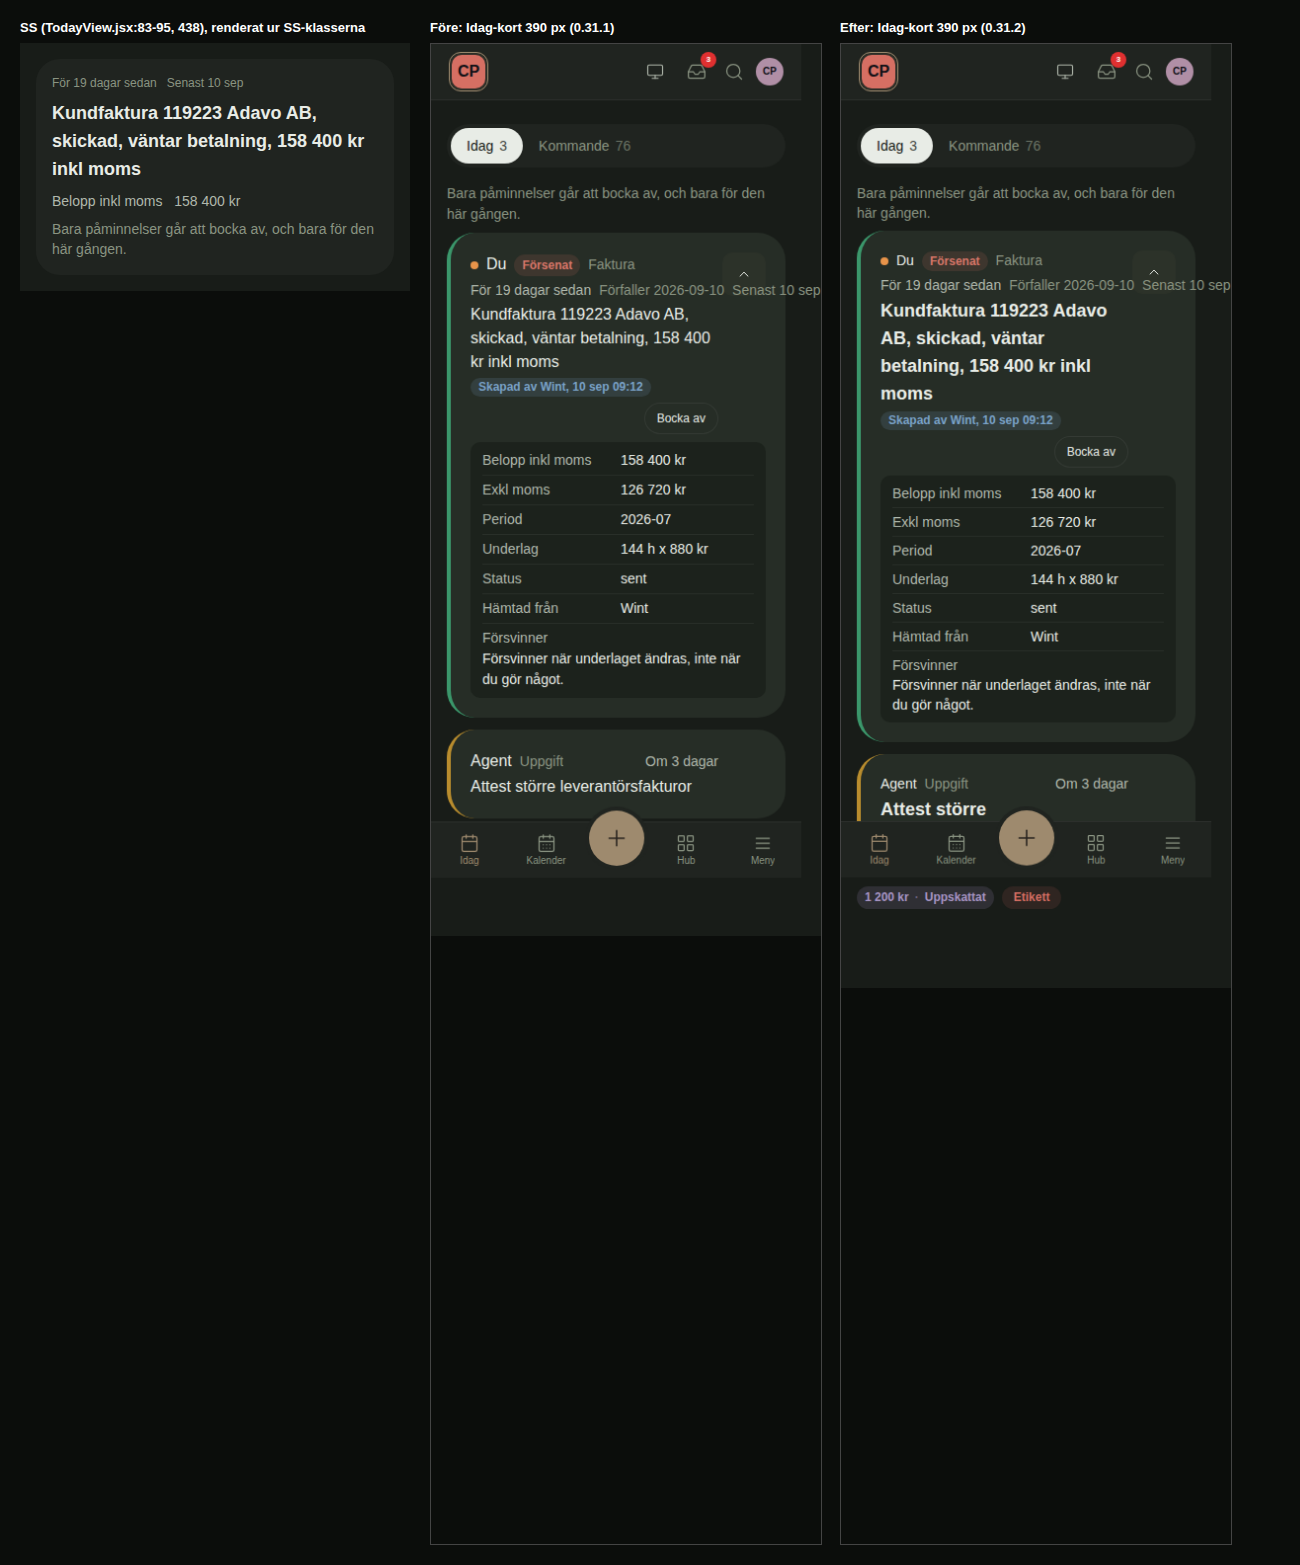
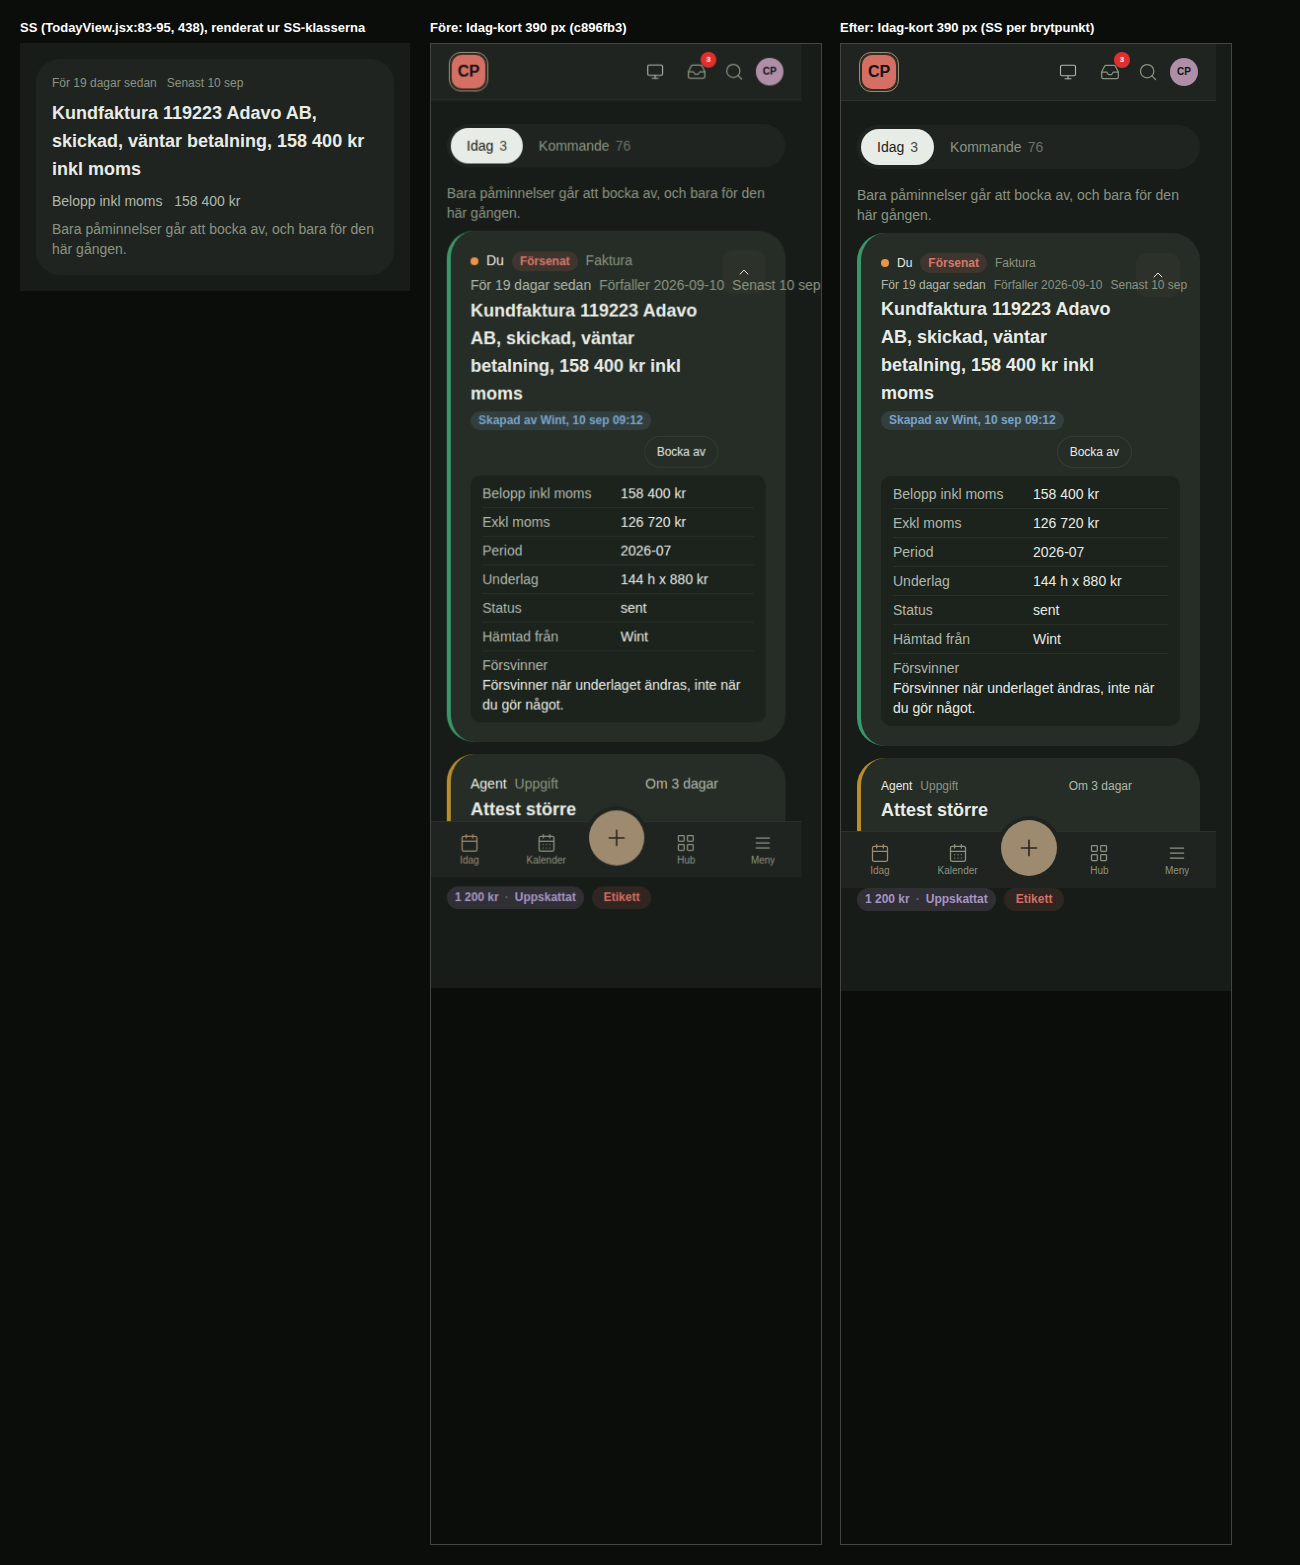
0.31.2: skalyta avsnitt 20 per brytpunkt och avsnitt 21 hemskärm, CHANGELOG E, montage och jämförelse
Claude-Session: https://claude.ai/code/session_01MtEbCzeFTkDPr7xPiiaUpz

diff --git a/scripts/lib/skalyta-entry.jsx b/scripts/lib/skalyta-entry.jsx
@@ -368,6 +368,33 @@ function Scen() {
       </Full>
     );
   }
+  // 0.31.2 (uppgift 6): en lång sida i skalet med bottenrad, för att emulera en hemskärmsapp (iOS standalone) med säkra zoner.
+  if (s === "lang") {
+    const { OpsView } = Ops;
+    const handelser = Array.from({ length: 12 }, (_, i) => ({ id: `l${i}`, title: `Händelse nummer ${i + 1}`, daysLeft: i - 3, role: "Du", kind: "Uppgift", when: `Om ${i} dagar`, slag: 2, slagLabel: "Uppgift" }));
+    return (
+      <Full>
+        <OpsView>
+          <OpsEventList events={handelser} />
+        </OpsView>
+      </Full>
+    );
+  }
+  // Samma sida med listan i `OpsScrollArea` (som bolag-ops Idag): ytan rullar i sig själv och dokumentet ska INTE rulla.
+  if (s === "langarea") {
+    const { OpsView, OpsScrollArea } = Ops;
+    const handelser = Array.from({ length: 12 }, (_, i) => ({ id: `l${i}`, title: `Händelse nummer ${i + 1}`, daysLeft: i - 3, role: "Du", kind: "Uppgift", when: `Om ${i} dagar`, slag: 2, slagLabel: "Uppgift" }));
+    return (
+      <Full>
+        <OpsView>
+          <p>Filter</p>
+          <OpsScrollArea>
+            <OpsEventList events={handelser} />
+          </OpsScrollArea>
+        </OpsView>
+      </Full>
+    );
+  }
   // 0.31.2: Idag som referens för avståndet under toppraden och sidomarginalen: en vanlig vy i `OpsView`, som bolag-ops Idag.
   if (s === "idag") {
     const { OpsView } = Ops;

diff --git a/CHANGELOG.md b/CHANGELOG.md
@@ -51,11 +51,15 @@ CP: *"Fortfarande jävla diffar i textstorlek på olika håll. Kan det bli enhet
 faktatabellen och bottenraden olika storlekar. Orsaken: komponenterna skrev `text-xs`, `text-sm`, `text-base`, `text-md`, `text-lg` och `text-xl` rakt av (**168 ställen i 61 filer**)
 och det som saknade storlek ärvde 16 px från body. Nu finns tio roller i `tokens/sessionstudio-profil.json` med SS fil och rad (nya: `meta` 12 px, `brod` 16 px, `titel` 18 px, `sida` 20 px;
 `etikett` fick SS radhöjd 1,25 rem) och **ingen ramverkskomponent skriver en Tailwind-storlek**: kortets titel är `titel`, metaraden och faktarader `etikett`, chips `meta`.
-⛔ Ändrat värde: **sidrubrikerna (`text-xl`) går från 24 till 20 px**, som SS `GroupDetailView.jsx:95` (ramverkets `text-xl` var ett eget mellansteg). Kortets titel går från 16 till 18 px.
-⛔ Kvarvarande skillnader mot SS, medvetna: metaraden är 14 px på telefon (SS 12 px, `text-xs sm:text-sm`) och korttiteln 18 px på alla bredder (SS 20 px från sm); ramverket har en storlek per roll.
+⛔ Ändrat värde: **sidrubrikerna (`text-xl`) går från 24 till 20 px**, som SS `GroupDetailView.jsx:95` (ramverkets `text-xl` var ett eget mellansteg). Kortets titel går från 16 till 18 px (20 från 640 px).
+**SS per brytpunkt** (CP: "exakt SS"): kortets metarad är `text-meta sm:text-etikett` (12 px under 640 px, 14 från; SS `text-xs sm:text-sm`, `TodayView.jsx:83/86`) och korttiteln `text-titel sm:text-sida` (18 / 20 px; SS `text-lg sm:text-xl`, `TodayView.jsx:89`). Vakten mäter mot SS-värdet per bredd (390 och 1280); rött mot c896fb3 (4 brott), grönt efter.
 `check-typografi` fäller nu `text-xs/sm/base/md/lg/xl` i `src/components` och `src/lib` (rött i `check:guards`, grönt för en roll; en app utan `--ramverksregler` berörs inte).
 `check-skalyta` avsnitt 20 mäter varje synligt textelement på fem fixtursidor vid 390 och 1280 (296 i `main`, golv 60): roll finns, storleken ur rollmängden och lika med SS-värdet,
 samma storlek på båda bredder, Idag-kortets element mot SS. **Rött mot HEAD: 300 avvikelser (278 textelement), grönt nu: 0.** Tokens `--text-sm/base/xs/md/lg/xl` finns kvar för appar som ännu inte flyttat.
+
+### E. Hemskärmsapp (iOS standalone): headern täcker statusfältet och sidan rullar inte extra (CP 2026-09-29 22:33)
+CP, bolag-ops på hemskärmen (`viewport-fit=cover`, `black-translucent`): *"Ser ut att scrollningen blir fel. Den scrollar liksom upp."* Emulerat i Chromium med `--safe-top: 47px` och `--safe-bottom: 34px` (390x844), mätt före: (1) headern var `sticky top-(--safe-top)` utan padding och satt 47 px ned, med en otäckt remsa ovanför där innehållet rullade förbi statusfältet; (2) `OpsView` räknade `--safe-bottom` en andra gång (`main` räknar den redan) och `OpsScrollArea` drog inte bort `OpsView`s `pb-6`, så en sida med listan i `OpsScrollArea` (Idag) blev 902 px hög i ett fönster på 844: dokumentet rullade 58 px OVANPÅ listans egen rullning, och en tom remsa stod mellan listan och bottenraden.
+Nu: headern är `top-0 pt-(--safe-top)` (börjar vid y = 0, 104 px hög med zonerna), `OpsView` räknar säker yta i botten bara från `md`, och `FULL_HEIGHT_CLASSES` drar bort 1,5 rem: sidan är exakt fönstrets höjd (844 mot 844, scrollY 0), sista kortet ligger 23 px ovanför bottenraden. `check-skalyta` avsnitt 21: **rött mot c896fb3 (6 brott), grönt nu.** Ingen ändring krävs i appen (bolag-ops behöver inte lägga egen padding).
 
 ### Att göra i appen vid ompinning till 0.31.2
 1. **Ta bort regeln `header.sticky > div.max-w-7xl { ... }` ur `web/src/index.css` (#240).** Toppen är då åter lika bred som panelen. Behövs en smalare topp är det

diff --git a/docs/jamforelser/0.31.2/hub-tillbaka-meny-text.md b/docs/jamforelser/0.31.2/hub-tillbaka-meny-text.md
@@ -59,9 +59,9 @@ Ett Idag-kort byggt av ramverkets komponenter (`OpsSegmented`, `OpsEventList` me
 
 | Element | Före | Efter | SS |
 |---|---|---|---|
-| Kortets titel | 16 px / 400 (ärvd från body) | 18 px / 700 (`titel`) | `text-lg font-bold`, 18 px (20 från sm) |
+| Kortets titel | 16 px / 400 (ärvd från body) | 18 px under 640 px, 20 px från (`text-titel sm:text-sida`, 700) | `text-lg sm:text-xl font-bold` (`TodayView.jsx:89`): 18 / 20 |
 | Rollen ("Du", "Agent") | 16 px (ärvd) | 14 px (`etikett`) | `text-sm` |
-| Kortets meta, kind, when | 14 px (`text-sm` rakt av) | 14 px (`etikett`) | `text-xs sm:text-sm`: 12 px på telefon, 14 från sm |
+| Kortets metarad (roll, kind, when, deadline) | 14 px (`text-sm` rakt av) | 12 px under 640 px, 14 px från (`text-meta sm:text-etikett`) | `text-xs sm:text-sm` (`TodayView.jsx:83/86`): 12 / 14 |
 | Faktarader: etikett och värde | 14 px | 14 px (`etikett`) | `text-sm` |
 | Chips, märken | 12 px (`text-xs`) | 12 px (`meta`) | `text-xs` |
 | Hjälptext ("Bara påminnelser ...") | 14 px | 14 px (`etikett`) | `text-sm` (`TodayView.jsx:438`) |
@@ -72,4 +72,23 @@ Distinkta storlekar i ramverkets Idag-kort: före 12/14/16, efter 12/14/18. I al
 storlekar ur rollmängden 8/10/11/12/14/16/18/20, ingen skillnad mellan 390 och 1280. Före: **300 avvikelser** (278 textelement), efter: **0**.
 Största bytet i ramverket: `text-xs/sm/base/md/lg/xl` skrivna rakt av på **168 ställen i 61 filer** är nu roller, och rollerna `meta`, `brod`, `titel`
 och `sida` är nya (`etikett` fick SS radhöjd 1,25 rem i stället för 1,5).
-⛔ Kvarvarande skillnader mot SS: metaraden är 14 px överallt (SS 12 px på telefon), korttiteln 18 px överallt (SS 20 px från sm).
+Metaraden och korttiteln följer SS per brytpunkt (sm = 640 px): 390 px 12 / 18, 1280 px 14 / 20, mätt mot SS-värdet per bredd i check-skalyta avsnitt 20.
+Rött mot c896fb3 (metaraden 14 px på 390, titeln 18 px på 1280): 4 brott; grönt efter: 796 kontroller. Inga kända skillnader mot SS kvar i Idag-kortet;
+⛔ vikten på `sida` är 700 (SS h1 600), som för tillbaka-raden ovan.
+
+## 6. Hemskärmsapp (iOS standalone), `hemskarm-fore-efter.png`
+
+CP 2026-09-29 22:33: "Lade till appen på hemskärmen. Ser ut att scrollningen blir fel. Den scrollar liksom upp." Emulerat med `--safe-top: 47px` och `--safe-bottom: 34px`
+på :root, 390x844 (check-skalyta avsnitt 21). Två orsaker, båda mätta:
+
+| Mått (px) | Före | Efter |
+|---|---|---|
+| Headerns ovankant (toppläge och rullad) | 47 (`sticky top-(--safe-top)`: otäckt remsa ovanför) | 0 (`top-0`, `pt-(--safe-top)`) |
+| Headerns höjd | 57 | 104 (47 + 56 + linje) |
+| Det som ligger överst på skärmen efter rullning | sidans innehåll | headern |
+| Vanlig sida: sista kortet till bottenraden | 57 tomt (OpsView räknade säker yta en andra gång) | 23 (`pb-6`) |
+| Lista i `OpsScrollArea` (Idag): dokumentet mot fönstret | 902 mot 844, sidan rullar 58 px ovanpå ytans egen rullning | 844 mot 844, scrollY 0 |
+| Ytans underkant mot bottenradens överkant | 696 mot 753 | 730 mot 753 (1,5 rem luft) |
+
+"Scrollar upp" var alltså sidan som flyttade sig 58 px medan listan rullade i sig själv, och tomrummet mellan ytan och raden var samma 58 px. Bottenpaddingen
+i `OpsView` räknade `--safe-bottom` som `main` redan räknar (nu bara från md), och `OpsScrollArea`/`OpsCalendar` drog inte bort `OpsView`s `pb-6` (nu 1,5 rem borträknat).

diff --git a/README.md b/README.md
@@ -1791,8 +1791,7 @@ Storlek, radhöjd, vikt och spärrning bor på ETT ställe: `typografi.roller` i
 | `text-liten` | 0,625 rem (10 px) | bottenradens etikett, flikar, avataretikett (`MobileTabBar.jsx:87`) |
 | `text-mikro` | 0,5 rem (8 px), fet | räknemärkets siffra (`AppHeader.jsx:222`) |
 
-Samma storlek på mobil och dator: SS `text-xs sm:text-sm` (metarad) och `text-lg sm:text-xl` (korttitel) är
-`etikett` och `titel` på alla bredder här. Text utan roll ärver 16 px från `body`, och det är det som gav "diffar
+SS har två responsiva par och ramverket följer dem exakt: kortets metarad `text-meta sm:text-etikett` (12 px under 640 px, 14 från; SS `text-xs sm:text-sm`, `TodayView.jsx:83`) och korttiteln `text-titel sm:text-sida` (18 / 20 px; SS `text-lg sm:text-xl`, `:89`). Allt annat är en storlek på alla bredder. Text utan roll ärver 16 px från `body`, och det är det som gav "diffar
 i textstorlek" på Idag (0.31.1): ge alltid elementet en roll.
 
 Radhöjderna är `--leading-tight` (1,25) och `--leading-normal` (1,5). **`check-typografi`**
